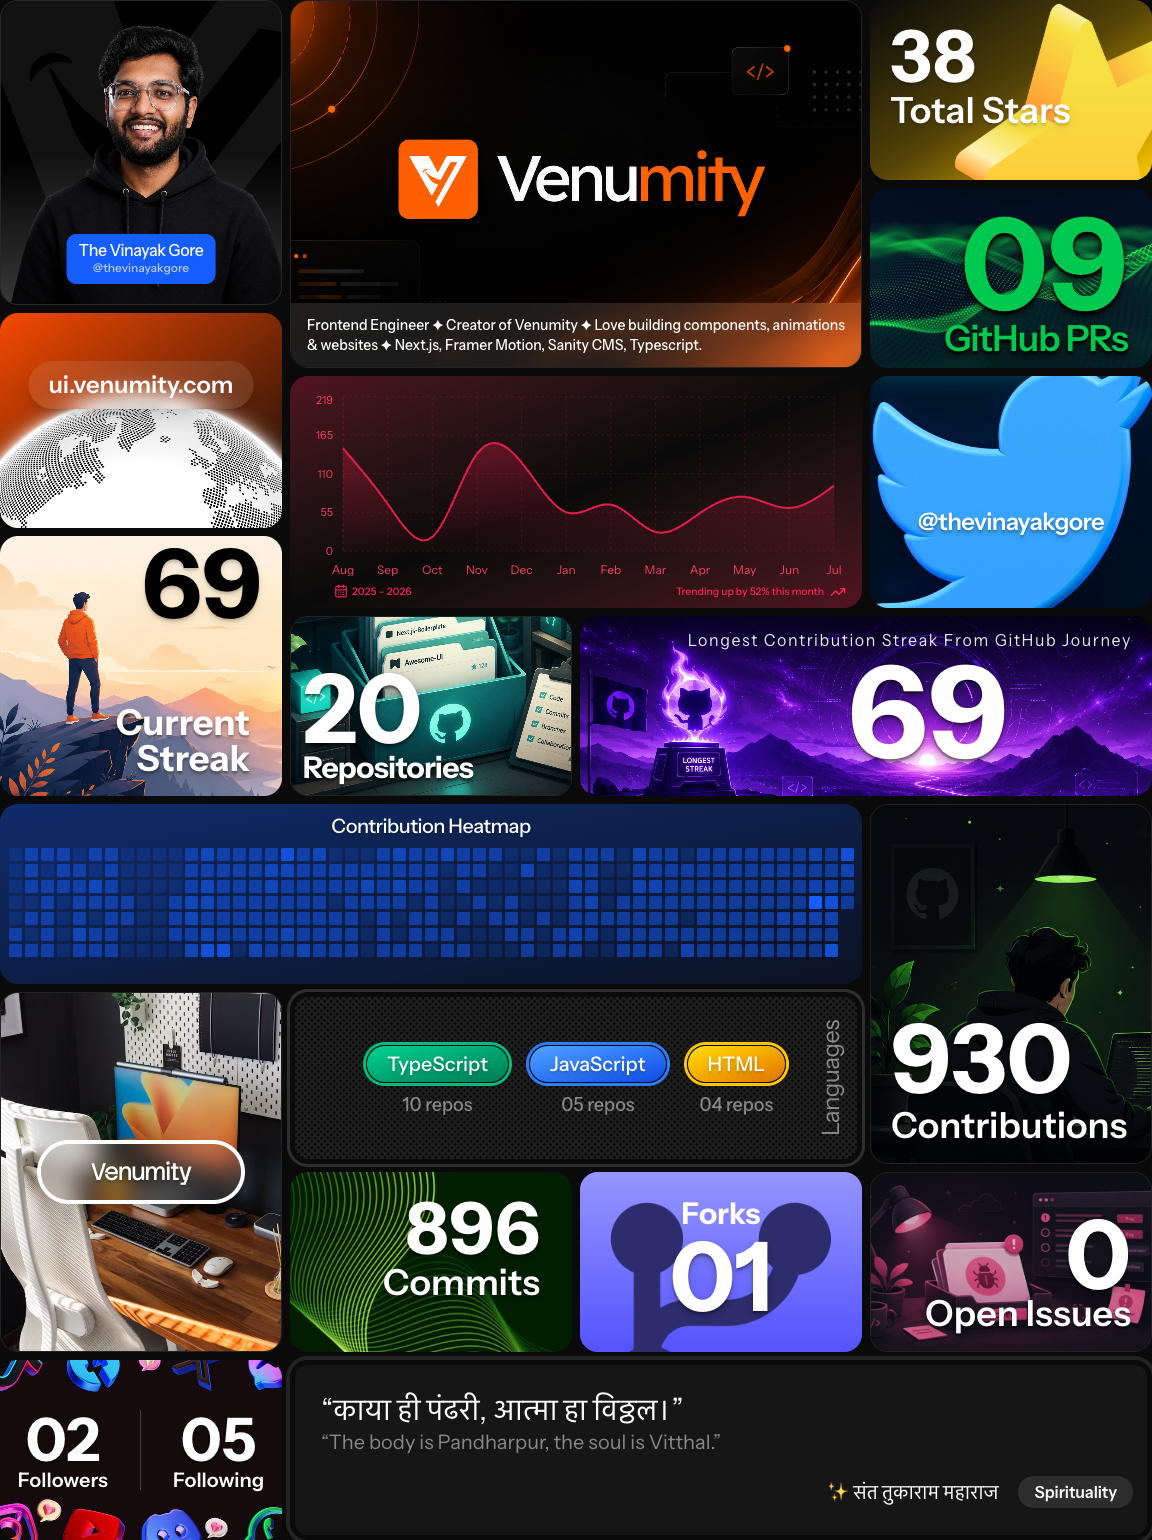
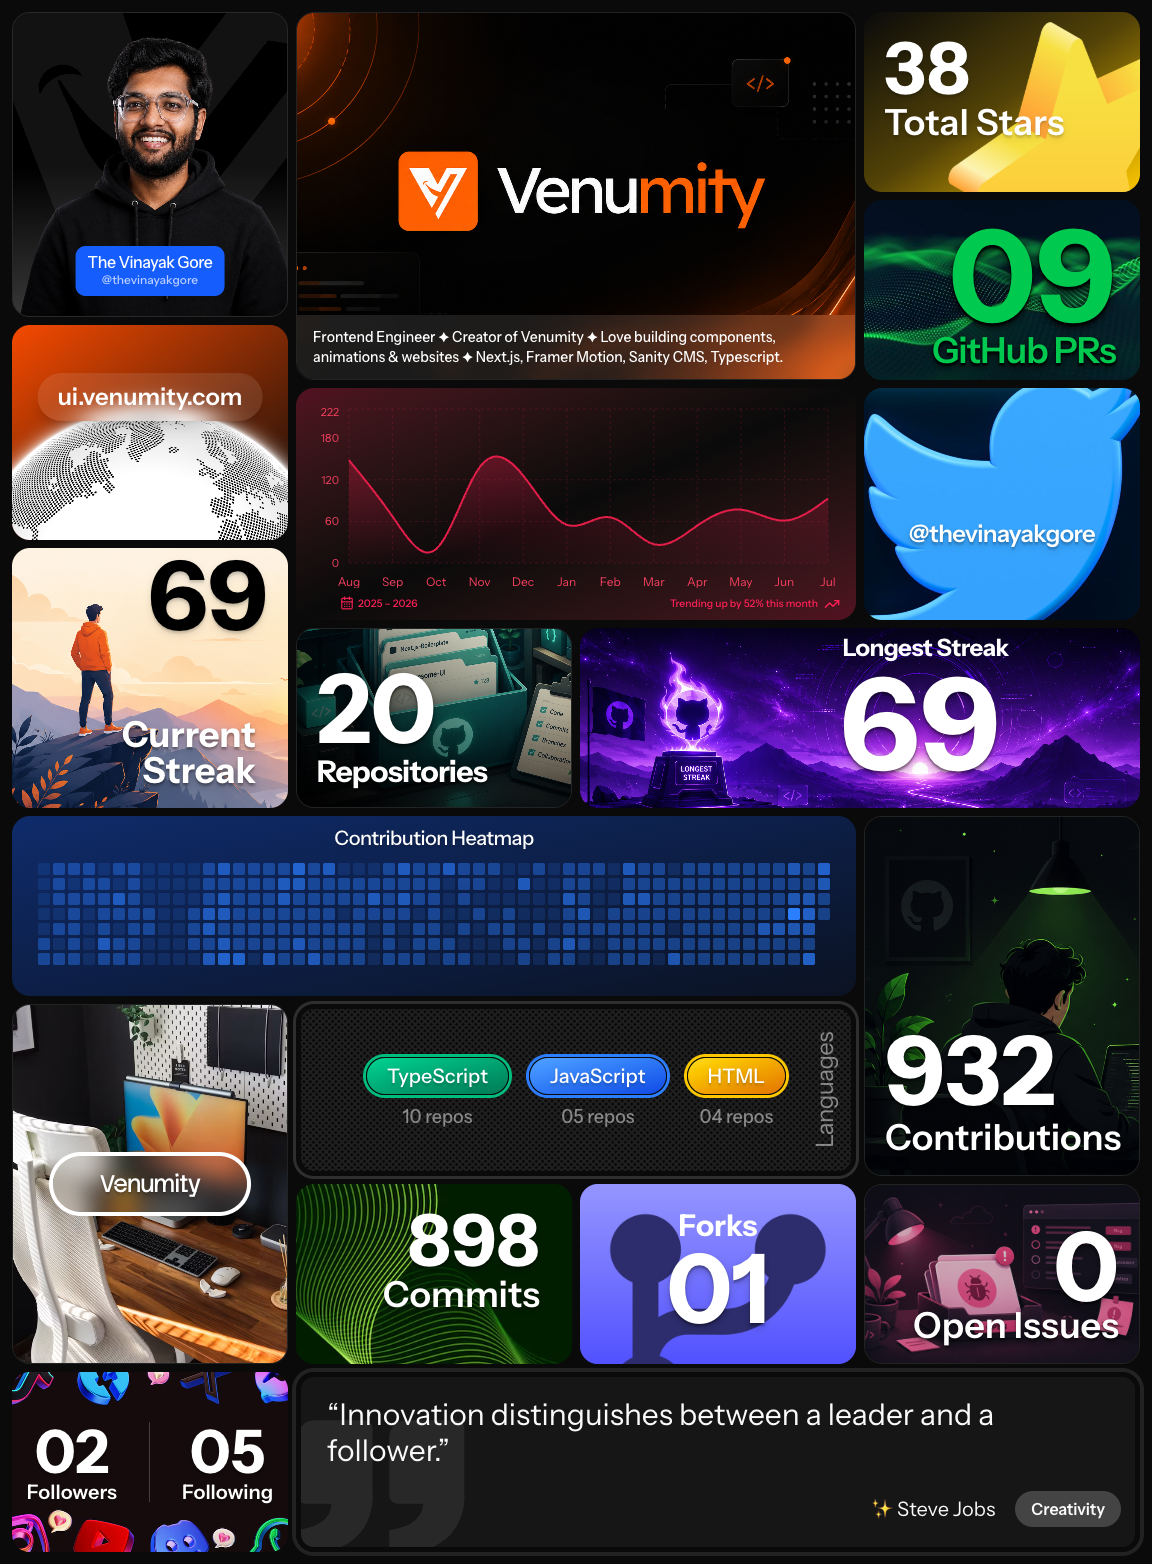
chore: update bento card

diff --git a/app/creator/page.tsx b/app/creator/page.tsx
@@ -4,7 +4,7 @@ import Link from "next/link";
 import Image from "next/image";
 import ChartView from "./chart-view";
 import { Separator } from "@/components/ui/separator";
-import { Loader2 } from "lucide-react";
+import { Loader2, Quote } from "lucide-react";
 import { useState, useEffect, useMemo, useCallback } from "react";
 import { formatCount } from "@/utils/format-count";
 import {
@@ -25,7 +25,13 @@ import {
   computeTotalForks,
   computeTopLanguages,
 } from "@/utils/bento-card";
-import { getDailyQuote } from "@/utils/quotes";
+import quotesData from "@/registry/quotes.json";
+
+interface Quote {
+  item: string;
+  author: string;
+  category: string;
+}
 
 // ── API functions ────────────────────────────────────────
 const USERNAME = "thevinayakgore";
@@ -142,12 +148,15 @@ function Heatmap({ weeks }: { weeks: ContributionWeek[] }) {
 
   const getColor = useCallback(
     (count: number) => {
-      if (count === 0) return "bg-blue-600/20";
-      const ratio = count / maxContributions;
-      if (ratio > 0.75) return "bg-blue-600";
-      if (ratio > 0.5) return "bg-blue-600/80";
-      if (ratio > 0.25) return "bg-blue-600/60";
-      return "bg-blue-600/50";
+      if (count <= 0 || maxContributions <= 0) {
+        return "bg-blue-500/15";
+      }
+      const percentage = (count / maxContributions) * 100;
+      if (percentage >= 100) return "bg-blue-500";
+      if (percentage >= 75) return "bg-blue-500/90";
+      if (percentage >= 50) return "bg-blue-500/70";
+      if (percentage >= 25) return "bg-blue-500/60";
+      return "bg-blue-500/40";
     },
     [maxContributions],
   );
@@ -160,7 +169,7 @@ function Heatmap({ weeks }: { weeks: ContributionWeek[] }) {
             <Tooltip key={di}>
               <TooltipTrigger>
                 <div
-                  className={`size-3.25 cursor-pointer rounded-xs ${getColor(day.contributionCount)}`}
+                  className={`size-3 cursor-pointer rounded-xs ${getColor(day.contributionCount)}`}
                 />
               </TooltipTrigger>
               <TooltipContent className="text-xs font-semibold px-2.5 py-1.5">
@@ -227,6 +236,12 @@ export default function Creator() {
     [data],
   );
 
+  function getSeededRandom(seed: number, min: number, max: number): number {
+    const x = Math.sin(seed) * 10000;
+    const random = x - Math.floor(x);
+    return Math.floor(random * (max - min + 1)) + min;
+  }
+
   if (loading) {
     return (
       <section id="bento-card" className="relative p-5 md:p-10 lg:p-20 w-full">
@@ -252,7 +267,7 @@ export default function Creator() {
   return (
     <section
       id="bento-card"
-      className="grid grid-cols-1 md:grid-cols-4 gap-2 max-w-6xl mx-auto w-full"
+      className="grid grid-cols-1 md:grid-cols-4 gap-2 p-3 max-w-6xl mx-auto w-full"
     >
       {/* Name */}
       <div
@@ -449,8 +464,9 @@ export default function Creator() {
           loading="eager"
           className="object-cover object-bottom-left absolute inset-0 scale-130 w-full h-full"
         />
-        <div className="absolute bottom-3 left-3 text-start z-30 text-white text-shadow-lg text-shadow-black/30">
-          <p className="text-8xl leading-none font-bold -mb-1">
+        <div className="absolute inset-x-0 bottom-0 left-0 bg-linear-to-tr from-black z-10 w-full h-full" />
+        <div className="absolute inset-x-0 bottom-0 left-0 p-5 text-start z-30 text-white text-shadow-lg text-shadow-black/30">
+          <p className="text-8xl leading-none font-bold">
             {formatCount(user.public_repos)}
           </p>
           <p className="text-3xl font-bold tracking-tight leading-none">
@@ -474,11 +490,11 @@ export default function Creator() {
           loading="eager"
           className="object-cover object-top-left absolute inset-0 scale-115 w-full h-full"
         />
-        <p className="absolute top-4 right-5 z-30 text-base text-center text-white/90 leading-none tracking-widest whitespace-nowrap w-fit">
-          Longest Contribution Streak From GitHub Journey
-        </p>
         <p className="absolute top-3 right-1/3 translate-x-1/3 z-30 p-5 text-center text-white text-shadow-lg text-shadow-black/25 text-9xl leading-none font-bold">
           {formatCount(stats.longestStreak)}
+        </p>
+        <p className="absolute top-2 right-1/3 translate-x-1/3 text-center z-30 text-white text-2xl font-bold tracking-tight leading-none">
+          Longest Streak
         </p>
       </div>
 
@@ -702,28 +718,56 @@ export default function Creator() {
         </div>
       </div>
 
-      {/* Daily Quotes */}
+      {/* Daily Quotes - English Only */}
       <div
         className="relative flex flex-col items-center justify-center p-5 text-center bg-foreground/5 ring-4 ring-foreground/10 border-5 border-background rounded-2xl overflow-hidden min-h-45"
         style={{ gridColumn: "span 3", gridRow: "span 3" }}
       >
         {(() => {
-          const quote = getDailyQuote();
+          const allQuotes = quotesData as Quote[];
+          const englishQuotes = allQuotes.filter(
+            (q) => !/[\u0900-\u097F]/.test(q.item),
+          );
+
+          // Use seeded random based on today's date
+          const today = new Date();
+          const dayOfYear = Math.floor(
+            (today.getTime() - new Date(today.getFullYear(), 0, 0).getTime()) /
+              (1000 * 60 * 60 * 24),
+          );
+          const randomIndex = getSeededRandom(
+            dayOfYear,
+            0,
+            englishQuotes.length - 1,
+          );
+          const randomEnglishQuote = englishQuotes[randomIndex] || allQuotes[0];
+
           return (
-            <div className="flex flex-col items-start justify-start text-start ml-3 w-full">
-              <h3 className="text-3xl">&ldquo;{quote.item}&rdquo;</h3>
-              <p className="text-xl text-foreground/50">
-                &ldquo;{quote.mean}&rdquo;
-              </p>
+            <div className="flex flex-col items-start justify-between text-start ml-3 w-full h-full">
+              <h3 className="text-start text-3xl">
+                &ldquo;{randomEnglishQuote.item}&rdquo;
+              </h3>
               <div className="flex items-center gap-5 ml-auto mt-5">
-                <span className="text-xl leading-none">✨ {quote.author}</span>
-                <span className="capitalize px-4 py-1 bg-foreground/10 backdrop-blur-md font-semibold rounded-full">
-                  {quote.category}
+                <span className="text-xl leading-none">
+                  ✨ {randomEnglishQuote.author}
+                </span>
+                <span className="capitalize px-4 py-1.5 bg-foreground/20 backdrop-blur-md font-semibold rounded-full">
+                  {randomEnglishQuote.category}
                 </span>
               </div>
             </div>
           );
         })()}
+        <svg
+          stroke="currentColor"
+          fill="currentColor"
+          strokeWidth="0"
+          viewBox="0 0 24 24"
+          xmlns="http://www.w3.org/2000/svg"
+          className="absolute -bottom-10 -left-5 size-50 opacity-8"
+        >
+          <path d="M20.309 17.708C22.196 15.66 22.006 13.03 22 13V5a1 1 0 0 0-1-1h-6c-1.103 0-2 .897-2 2v7a1 1 0 0 0 1 1h3.078a2.89 2.89 0 0 1-.429 1.396c-.508.801-1.465 1.348-2.846 1.624l-.803.16V20h1c2.783 0 4.906-.771 6.309-2.292zm-11.007 0C11.19 15.66 10.999 13.03 10.993 13V5a1 1 0 0 0-1-1h-6c-1.103 0-2 .897-2 2v7a1 1 0 0 0 1 1h3.078a2.89 2.89 0 0 1-.429 1.396c-.508.801-1.465 1.348-2.846 1.624l-.803.16V20h1c2.783 0 4.906-.771 6.309-2.292z" />
+        </svg>
       </div>
     </section>
   );
